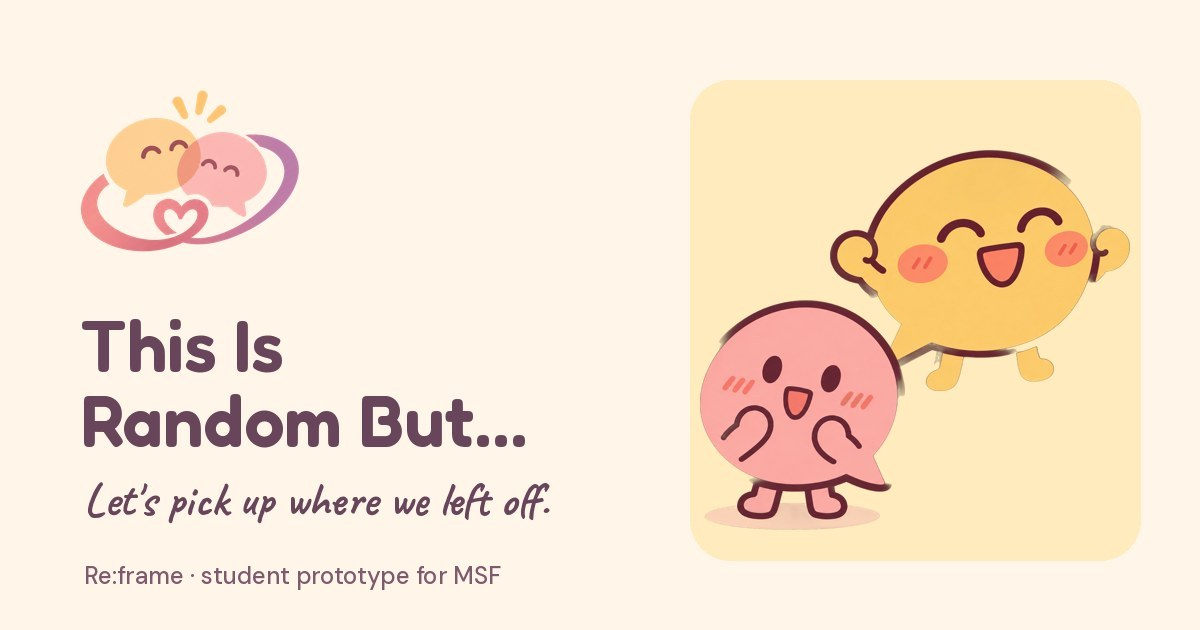
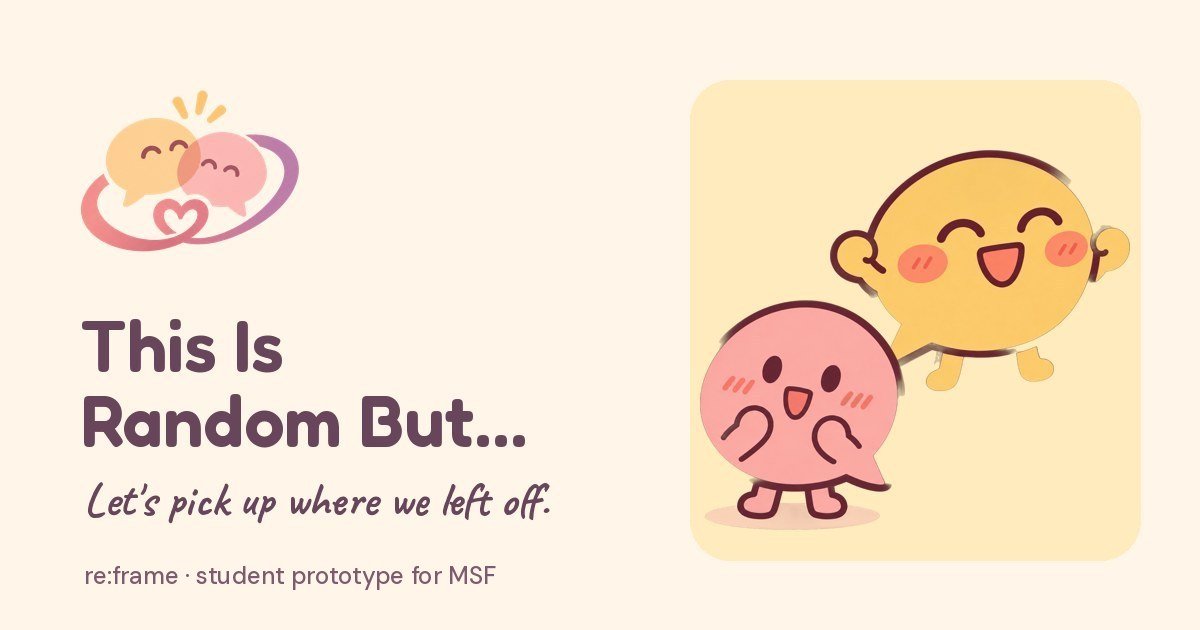
Lowercase re:frame; hide unconfirmed IG handle; bigger strip preview on tall phones
Claude-Session: https://claude.ai/code/session_01Fy4PvB5ZGwCLPbrRgS251u

Changed region(s): [[0.0617, 0.8746, 0.4317, 0.9349]]

diff --git a/js/app.js b/js/app.js
@@ -117,7 +117,7 @@ async function landing() {
       ${lockup()}
       <div class="hero" aria-hidden="true"><img src="${ASSETS.ovr}" alt="" width="78" height="85"><img src="${ASSETS.enc}" alt="" width="96" height="87"></div>
       <h1 class="display">thinking of texting an <span class="highlight">old friend?</span></h1>
-      <p class="body muted" style="margin:0">They’re probably hoping to hear from you too. Re:frame makes going first feel a little less random, in three small steps.</p>
+      <p class="body muted" style="margin:0">They’re probably hoping to hear from you too. re:frame makes going first feel a little less random, in three small steps.</p>
       <div class="card stat"><span class="stat-num">${stats.pleased}%</span>
         <div class="stack-sm" style="gap:4px"><p class="label" style="font-size:13px;line-height:18px">of youths we surveyed would be really happy if an old friend texted first. Only ${stats.thinkSame}% think their friend feels the same.</p>
         <p class="caption" style="text-transform:none;letter-spacing:0">Our survey of ${stats.n} youths aged 17 to 25</p></div></div>
@@ -507,7 +507,7 @@ async function doneView(id) {
     body: `${progress('done')}
       <h1 class="display">your photostrip is done!</h1>
       <div class="strip-preview"><p class="muted small" id="rendering">Making your strip…</p></div>
-      <p class="small muted" style="margin:0">It’s private to you two. For the Photostrip Challenge, share it to your Story and tag ${esc(site.igHandle)} with ${esc(site.hashtag)}.${MODE === 'demo' ? ` In the real version, ${esc(s.friendName)} is asked first.` : ''}</p>`,
+      <p class="small muted" style="margin:0">It’s private to you two. For the Photostrip Challenge, share it to your Story${site.igHandle ? ` and tag ${esc(site.igHandle)}` : ''} with ${esc(site.hashtag)}.${MODE === 'demo' ? ` In the real version, ${esc(s.friendName)} is asked first.` : ''}</p>`,
     actions: `<button class="btn btn-primary" id="share" disabled>${icon.share} Share to my Story</button>
       <div class="row"><button class="btn btn-tertiary" id="download" disabled>${icon.download} Save image</button>
       <button class="btn btn-tertiary" id="again">Start another</button></div>`,
@@ -538,7 +538,7 @@ async function doneView(id) {
       try { await navigator.share({ files: [file], text: `${site.hashtag} we picked up where we left off.` }); } catch {}
     } else {
       download();
-      toast(`Saved. Post it to your Story and tag ${site.igHandle}.`);
+      toast(`Saved. Post it to your Story with ${site.hashtag}.`);
     }
   });
   $('#again').addEventListener('click', () => {
@@ -605,7 +605,7 @@ async function aboutView() {
       <div class="card stack-sm"><h2 class="subheading">Demo mode</h2>
         <p class="small muted" style="margin:0">Everything you type and any photos you add stay in this browser on this device. Nothing is sent to a server, and your friend’s side is simulated so you can try the full journey on your own.</p></div>
       <div class="card stack-sm"><h2 class="subheading">How the real version would work</h2>
-        <p class="small muted" style="margin:0">Re:frame isn’t a chat app. Your friend opens your link on their own phone and adds their frame to your shared photostrip; the actual conversation stays in Instagram, Telegram or wherever you already chat. Strips are private to the two of you, deleted after the pilot, and only shared publicly if you both agree.</p></div>
+        <p class="small muted" style="margin:0">re:frame isn’t a chat app. Your friend opens your link on their own phone and adds their frame to your shared photostrip; the actual conversation stays in Instagram, Telegram or wherever you already chat. Strips are private to the two of you, deleted after the pilot, and only shared publicly if you both agree.</p></div>
       <button class="btn btn-secondary" id="reset">Clear demo data on this device</button>`,
   });
   $('#reset').addEventListener('click', async () => {

diff --git a/index.html b/index.html
@@ -3,8 +3,8 @@
 <head>
   <meta charset="utf-8">
   <meta name="viewport" content="width=device-width, initial-scale=1, viewport-fit=cover">
-  <title>Re:frame · This Is Random But…</title>
-  <meta name="description" content="Thinking of texting an old friend? Re:frame helps you go first, in three small steps: now, then and next. A student prototype for the MSF youth friendships campaign.">
+  <title>re:frame · This Is Random But…</title>
+  <meta name="description" content="Thinking of texting an old friend? re:frame helps you go first, in three small steps: now, then and next. A student prototype for the MSF youth friendships campaign.">
   <meta name="theme-color" content="#FFF6E9">
   <meta name="color-scheme" content="light">
   <meta name="robots" content="noindex">
@@ -12,7 +12,7 @@
   <!-- Link previews (Instagram, WhatsApp, Telegram) -->
   <meta property="og:type" content="website">
   <meta property="og:title" content="This Is Random But… let's pick up where we left off.">
-  <meta property="og:description" content="Someone thought of you. Open your shared photostrip on Re:frame.">
+  <meta property="og:description" content="Someone thought of you. Open your shared photostrip on re:frame.">
   <meta property="og:image" content="https://greengolbin.github.io/reframe/assets/img/og-image.jpg">
   <meta property="og:image:width" content="1200">
   <meta property="og:image:height" content="630">
@@ -29,7 +29,7 @@
 <body>
   <a class="skip-link" href="#main-content" onclick="event.preventDefault();document.getElementById('main-content')?.focus()">Skip to content</a>
   <div class="app"><main id="app" aria-live="off"></main></div>
-  <noscript><p style="padding:24px">Re:frame needs JavaScript turned on to work.</p></noscript>
+  <noscript><p style="padding:24px">re:frame needs JavaScript turned on to work.</p></noscript>
   <script type="module" src="js/app.js"></script>
 </body>
 </html>

diff --git a/css/styles.css b/css/styles.css
@@ -1,4 +1,4 @@
-/* Re:frame · This Is Random But…
+/* re:frame · This Is Random But…
    Design tokens match the v2 Figma ("Brand v2 · This is random but"). */
 
 @font-face { font-family: 'Fredoka'; font-weight: 500; font-display: swap; src: url('../assets/fonts/fredoka-latin-500-normal.woff2') format('woff2'); }
@@ -222,7 +222,7 @@ h1:focus { outline: none; }
 @keyframes blink { 0%, 80%, 100% { opacity: .25; } 40% { opacity: .9; } }
 
 .strip-preview { display: flex; justify-content: center; }
-.strip-preview img { height: min(250px, 34dvh); width: auto; border-radius: 8px; box-shadow: var(--shadow); }
+.strip-preview img { height: clamp(180px, calc(100dvh - 400px), 560px); width: auto; border-radius: 8px; box-shadow: var(--shadow); }
 
 /* ---------- Photo picker ---------- */
 .photo-pick { display: flex; align-items: center; gap: 12px; }

diff --git a/js/content.js b/js/content.js
@@ -5,11 +5,11 @@
 export const site = {
   campaign: 'This Is Random But…',
   tagline: "Let's pick up where we left off.",
-  tool: 'Re:frame',
+  tool: 're:frame',
   // TODO(team): confirm the campaign hashtag before launch.
   hashtag: '#ThisIsRandomBut',
   // TODO(team): confirm the Instagram account people should tag.
-  igHandle: 'Reconnect',
+  igHandle: '', // the account handle once the team confirms the account; leave empty to hide
   disclaimer:
     'Student project prototype for the MSF Youth and Relationships brief (Ngee Ann Polytechnic, IMP capstone). Not an official MSF service.',
 };

diff --git a/js/photostrip.js b/js/photostrip.js
@@ -193,7 +193,7 @@ export async function renderPhotostrip(strip, assets) {
   ctx.fillText('we picked up where we left off.', W / 2, H - 170);
   ctx.font = '500 30px "DM Sans"';
   ctx.fillStyle = C.plumMuted;
-  ctx.fillText(`${assets.hashtag}  ·  made with Re:frame`, W / 2, H - 110);
+  ctx.fillText(`${assets.hashtag}  ·  made with re:frame`, W / 2, H - 110);
 
   return new Promise((res) => cv.toBlob((b) => res(b), 'image/png'));
 }
